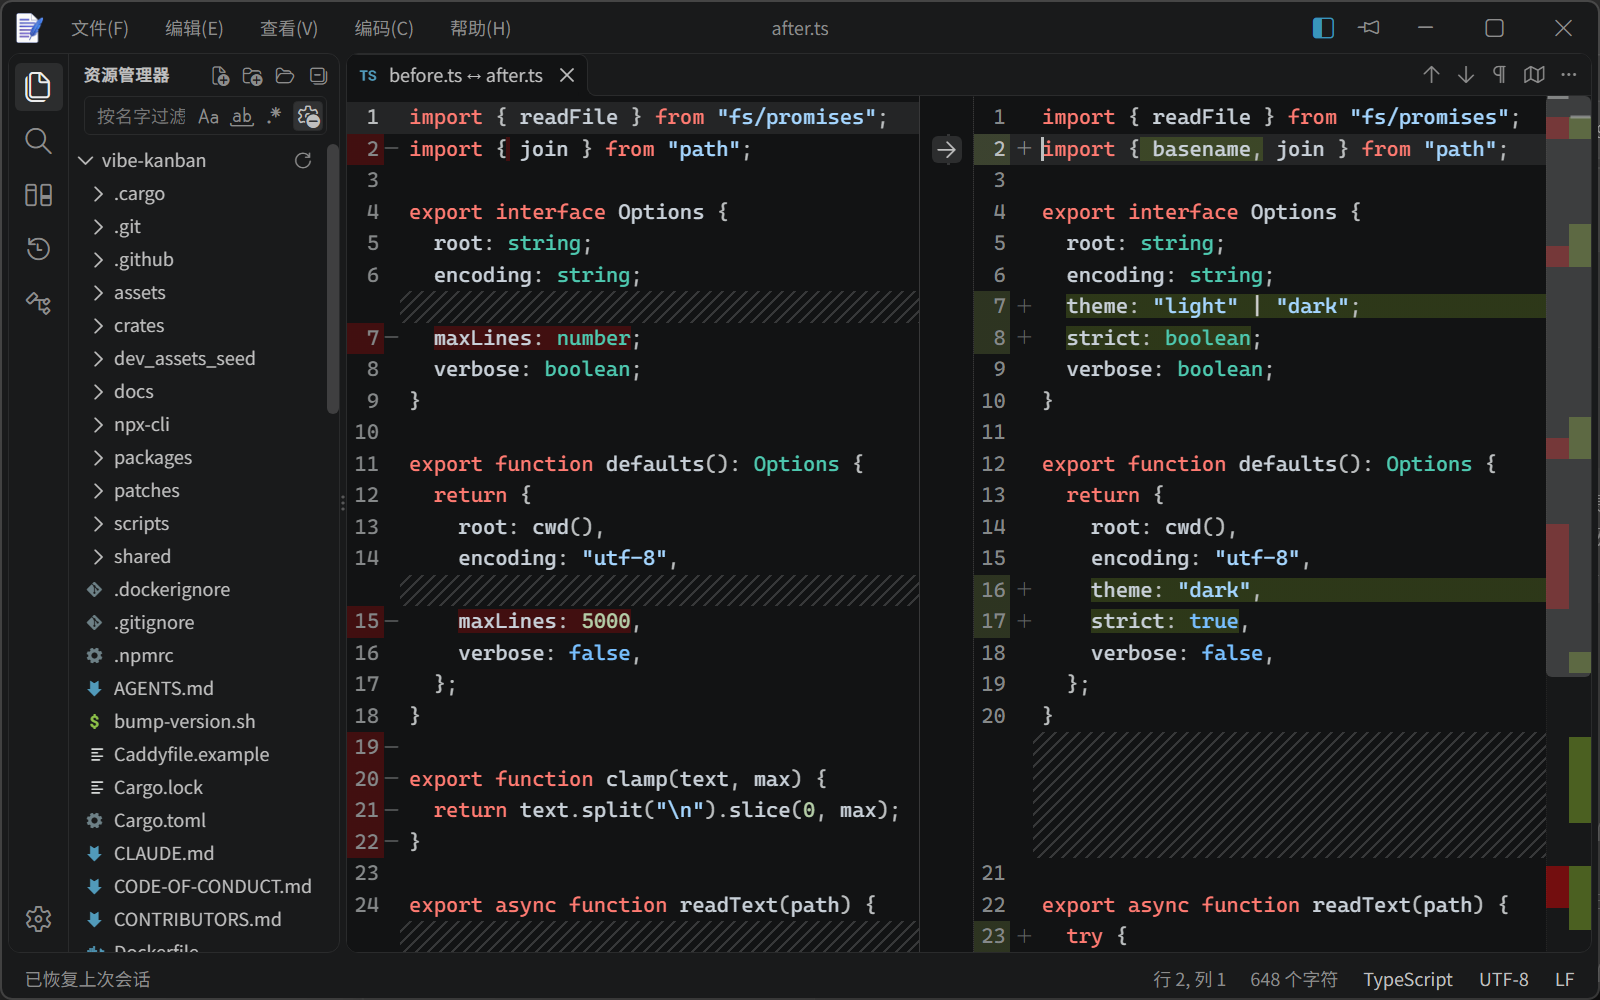
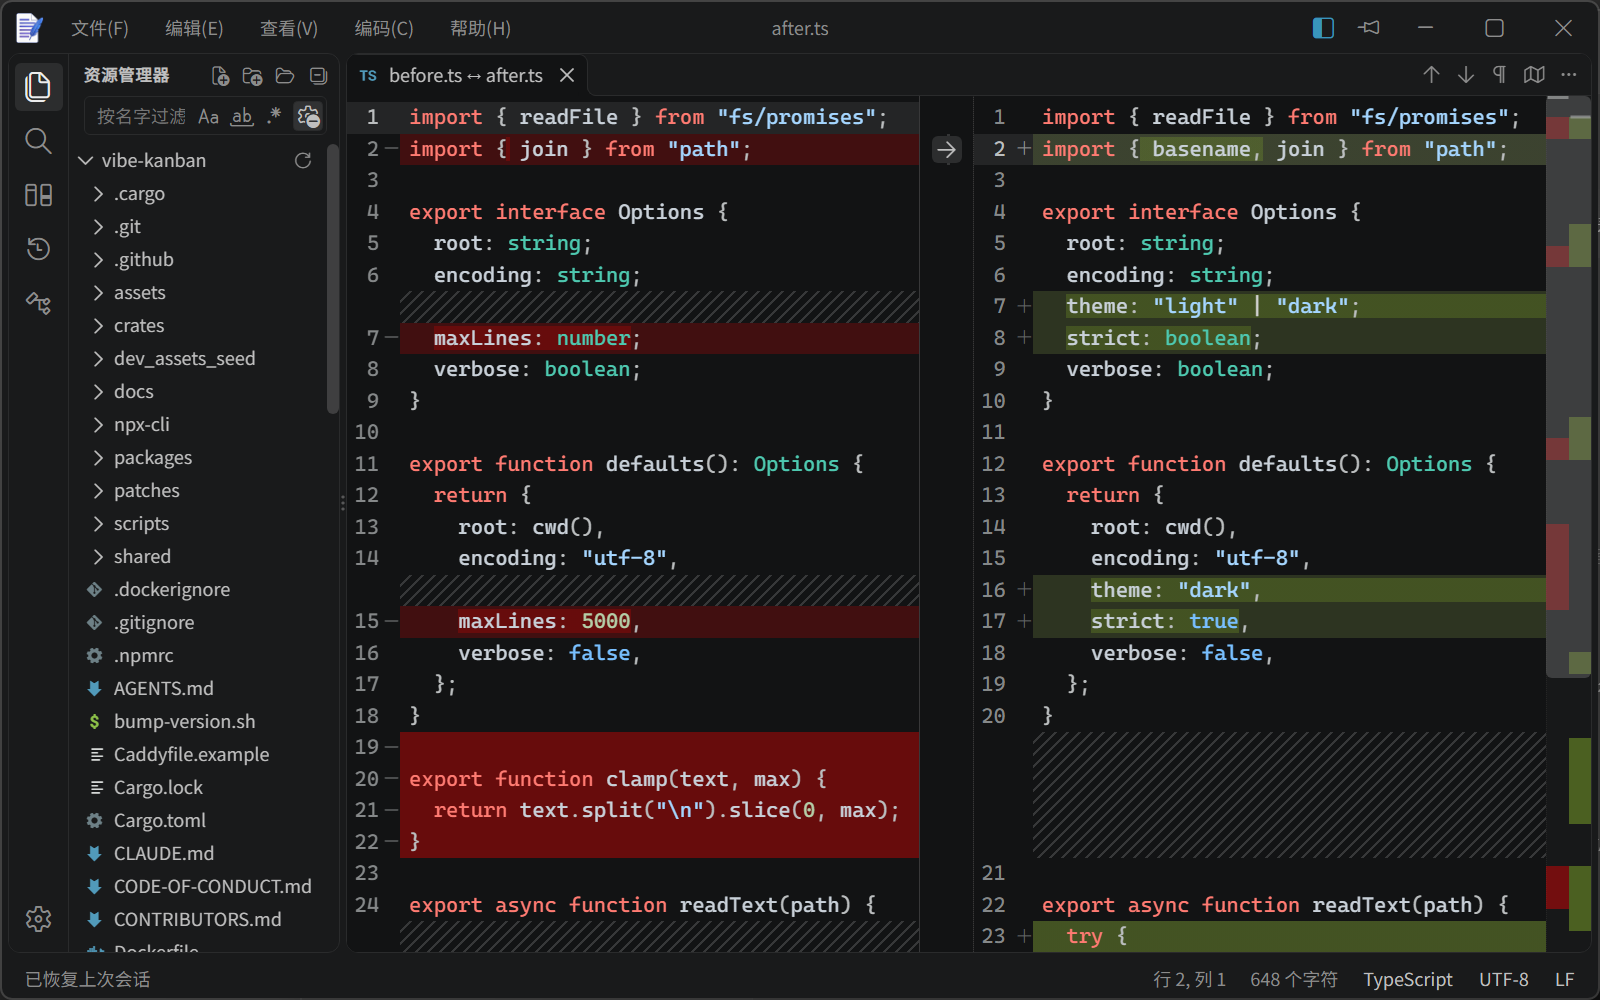
fix(diff): 差异行底色回到正文，行号槽不再上色
a697aa3 按「整行底色盖住语法高亮」的口径把正文 .diff-line-* 规则删了，
596f723 又给行号槽加了底色，结果色带只剩在行号区。按用户口径改回 VS Code
原样：正文行铺 inserted/removedLineBackground（background-image，不碰当前
行高亮），行号槽只留行号与 +/- 记号，face.ts 不再发 .diff-gutter-* 类。

diff --git a/src/diff/face.ts b/src/diff/face.ts
@@ -1,4 +1,4 @@
-// B461 · Task 3 —— 差异面的装饰层（一栏之内的行号槽底色 / 行内字符色 / 占位块 / 中间指示带）。
+// B461 · Task 3 —— 差异面的装饰层（一栏之内的行底色 / 行内字符色 / 占位块 / 中间指示带）。
 //
 // 设计稿 ⑥ 的「同源」约束落在这里：**本文件只消费 `blocks.ts` 交出来的 `DiffBlock[]`，
 // 自己一行都不重新对齐**（对齐只在 `src/diff/align.ts` 算一遍，4px 标注与差异面共用那颗）。
@@ -34,7 +34,6 @@ import {
   EditorView,
   gutter,
   GutterMarker,
-  lineNumberMarkers,
   WidgetType,
 } from "@codemirror/view";
 import { type DiffBlock, type DiffKind, type LineAlignment } from "./blocks";
@@ -411,8 +410,8 @@ function buildFace(
  * `decorationsLeft` → `contentLeft`）：记号走 `linesDecorationsClassName`，落在**行号与正文
  * 之间**，不是行号左边。CM6 的 gutter 按 DOM 次序排 ⇒ 本槽不许再写 `order: -1`。
  *
- * 行号槽本身另由 `DiffGutterMarker` 上色（上游的 `marginClassName`），两者同源于
- * `sideLineMarks` —— 底色、记号与正文行号因此永远落在同一批行上。
+ * 行号槽**不承载差异底色**（用户口径：色带只留在正文，见 `diff.css`）；记号与正文行级类
+ * 同源于 `sideLineMarks` —— 记号与正文行号因此永远落在同一批行上。
  *
  * 记号按**视觉行**画：自动换行把一行折成几行，每个视觉行左边各一颗（用户口径）。CM6 的
  * gutter 一格只对一个文档行，所以一格内部填成等高竖排（`fillSignRows`），行数跟着**这一格
@@ -549,7 +548,7 @@ function signIcon(kind: "insert" | "delete"): HTMLElement {
   return icon;
 }
 
-/** 这一栏的记号（与行号槽底色同一份来源，越界丢弃口径同上）。 */
+/** 这一栏的记号（与行级类同一份来源，越界丢弃口径同上）。 */
 function buildSigns(doc: Text, side: DiffSide, blocks: DiffBlock[]): RangeSet<GutterMarker> {
   const ranges: Range<GutterMarker>[] = [];
   for (const m of sideLineMarks(blocks, side)) {
@@ -559,47 +558,10 @@ function buildSigns(doc: Text, side: DiffSide, blocks: DiffBlock[]): RangeSet<Gu
   return RangeSet.of(ranges, true);
 }
 
-/**
- * 行号槽（margin）的差异底色：上游 `line-insert` / `line-delete` 同时带
- * `marginClassName: 'gutter-insert' / 'gutter-delete'`（`registrations.contribution.ts`），
- * 也就是行号那一列跟着代码区一起上色。CM6 的 `lineNumberMarkers` 把 `elementClass`
- * 加在**整格**行号元素上，正好是这层 margin。
- */
-class DiffGutterMarker extends GutterMarker {
-  readonly elementClass: string;
-
-  constructor(readonly kind: "insert" | "delete") {
-    super();
-    this.elementClass = `diff-gutter-${kind}`;
-  }
-
-  eq(other: GutterMarker): boolean {
-    return other instanceof DiffGutterMarker && other.kind === this.kind;
-  }
-
-  toString(): string {
-    return `gutter-${this.kind}`;
-  }
-}
-
-const insertGutter = new DiffGutterMarker("insert");
-const deleteGutter = new DiffGutterMarker("delete");
-
-/** 行号槽底色（每行一格；缺口行没有文档行 ⇒ 不上色，与上游 view zone 一致）。 */
-function buildGutters(doc: Text, side: DiffSide, blocks: DiffBlock[]): RangeSet<GutterMarker> {
-  const ranges: Range<GutterMarker>[] = [];
-  for (const m of sideLineMarks(blocks, side)) {
-    if (m.line < 1 || m.line > doc.lines) continue;
-    ranges.push((m.kind === "delete" ? deleteGutter : insertGutter).range(doc.line(m.line).from));
-  }
-  return RangeSet.of(ranges, true);
-}
-
-/** 装饰那一臂的四份画法：行级语义类 + 记号槽字形 + 行号槽底色 + 行内字符差异。 */
+/** 装饰那一臂的三份画法：行级语义类 + 记号槽字形 + 行内字符差异。 */
 interface FaceValue {
   lines: RangeSet<Decoration>;
   signs: RangeSet<GutterMarker>;
-  gutters: RangeSet<GutterMarker>;
   chars: RangeSet<Decoration>;
 }
 
@@ -613,7 +575,6 @@ function buildFaceValue(
   return {
     lines: buildFace(doc, side, blocks, gaps),
     signs: buildSigns(doc, side, blocks),
-    gutters: buildGutters(doc, side, blocks),
     chars: buildInner(doc, side, inner[side]),
   };
 }
@@ -698,7 +659,6 @@ const diffFaceField = StateField.define<FaceValue>({
       ? {
           lines: value.lines.map(tr.changes),
           signs: value.signs.map(tr.changes),
-          gutters: value.gutters.map(tr.changes),
           chars: value.chars.map(tr.changes),
         }
       : value;
@@ -706,12 +666,6 @@ const diffFaceField = StateField.define<FaceValue>({
   provide: (f) => [
     EditorView.decorations.from(f, (v) => v.lines),
     EditorView.decorations.from(f, (v) => v.chars),
-    // 行号槽底色吃同一份 `gutters`。依赖写 `f`（provide 的回调参数 = 本字段），
-    // 不写外层变量名 —— 否则字段初始化自引用，TS 推不出类型。
-    lineNumberMarkers.compute(
-      [f],
-      (state: EditorState): RangeSet<GutterMarker> => state.field(f).gutters,
-    ),
   ],
 });
 

diff --git a/src/diff/diff.css b/src/diff/diff.css
@@ -294,7 +294,7 @@
   --diff-revert-fg: #ffffff;
 }
 
-/* 亮色档的字符底色比暗色高一档（上游 light = #9ccc2c40）；行号槽底色明暗相同，不另开。
+/* 亮色档的字符底色比暗色高一档（上游 light = #9ccc2c40）；行底色明暗相同，不另开。
    概览色带跟着亮色的字符底色走（同样 ×2 ⇒ 0.5）。 */
 :root[data-theme="light"] {
   --diff-char-add: #9ccc2c40;
@@ -303,9 +303,8 @@
   --diff-unchanged-shadow: #737373bf;
 }
 
-/* 代码行区**不铺**差异底色（用户口径）：整行 red / green 会盖住语法高亮，改动由行号槽
-   底色、`+` / `−` 记号与行内字符级差异表达。
-   ⚠ 行内字符底色走 `background-image`（`linear-gradient(c, c)` 是一颗纯色层），**不碰**
+/* 行级差异色**只铺正文**（用户口径：VS Code 的色带在代码行上，行号槽不上色）。
+   ⚠ 行底色与行内字符底色都走 `background-image`（`linear-gradient(c, c)` 是一颗纯色层），**不碰**
    `background` / `background-color`（R21）：那两个属性是当前行的 ——
    `.panel-host .cm-editor .cm-activeLine`（0-3-0），而 2026 两档的当前行**只有底色一种**指示
    （见 `global.css` 的 B381 分档注释）。在同一条声明里抢同一个属性，就只能靠加码特异度压它，
@@ -325,6 +324,32 @@
 
 .panel-host.is-diff .diff-char-delete {
   background-image: linear-gradient(var(--diff-char-del), var(--diff-char-del));
+}
+
+/* 行底色：整行一层 20% alpha 的增 / 删色（上游 `insertedLineBackground` /
+   `removedLineBackground`）。分侧语义照 VS Code：**没有「修改行」这一档** —— 原稿侧涂 del、
+   新稿侧涂 add，改块在两边各按自己那一侧上色。 */
+.panel-host.is-diff .cm-line.diff-line-insert {
+  background-image: linear-gradient(var(--diff-line-add), var(--diff-line-add));
+}
+
+.panel-host.is-diff .cm-line.diff-line-delete {
+  background-image: linear-gradient(var(--diff-line-del), var(--diff-line-del));
+}
+
+/* 纯增 / 纯删块：上游 `diffWholeLineAdd / Delete` 就是 `char-insert / char-delete` 的整行版
+   （`isWholeLine: true`），与行底色**两层叠着画**。这里在同一元素的 `background-image` 里
+   叠两层（先写的在上层），整行吃满字符色 —— 不再只覆盖文字宽度。 */
+.panel-host.is-diff .cm-line.diff-line-insert.diff-whole-insert {
+  background-image:
+    linear-gradient(var(--diff-char-add), var(--diff-char-add)),
+    linear-gradient(var(--diff-line-add), var(--diff-line-add));
+}
+
+.panel-host.is-diff .cm-line.diff-line-delete.diff-whole-delete {
+  background-image:
+    linear-gradient(var(--diff-char-del), var(--diff-char-del)),
+    linear-gradient(var(--diff-line-del), var(--diff-line-del));
 }
 
 /* 跨行改动的非末段：上游 `shouldFillLineOnLineBreak` 会把底色补到编辑区右缘。
@@ -370,19 +395,11 @@
   margin-right: -2px;
 }
 
-/* 行号槽是**行级**差异色唯一的落点（用户口径：代码行区不铺底色）：上游
-   `registrations.contribution.ts` 的 `line-insert` / `line-delete` 都带
-   `marginClassName: 'gutter-insert' / 'gutter-delete'`，`diffEditor/style.css` 给这两颗类铺
-   `diffEditorGutter.*LineBackground`，主题未覆盖时落到 `diffEditor.inserted/removedLineBackground`。
-   CM6 侧由 `lineNumberMarkers`（`face.ts` 的 `DiffGutterMarker.elementClass`）加在整格行号元素上。
-   同一手法走 `background-image`，不碰当前行的 `background-color`。 */
-.panel-host.is-diff .cm-lineNumbers .cm-gutterElement.diff-gutter-insert {
-  background-image: linear-gradient(var(--diff-line-add), var(--diff-line-add));
-}
-
-.panel-host.is-diff .cm-lineNumbers .cm-gutterElement.diff-gutter-delete {
-  background-image: linear-gradient(var(--diff-line-del), var(--diff-line-del));
-}
+/* 行号槽**不承载差异底色**：色带只留在正文，行号文字与 `+` / `−` 记号照旧。
+   ⚠ 上游不是这样：`registrations.contribution.ts` 的 `line-insert` / `line-delete` 都带
+   `marginClassName: 'gutter-insert' / 'gutter-delete'`，但 `diffEditorGutter.*LineBackground`
+   注册时默认 `null`、主题不覆盖时那颗 CSS 变量不输出。本项目按产品口径不复刻 margin 上色，
+   `face.ts` 也不发 `.diff-gutter-*` 类 —— 这里刻意没有任何行号槽底色规则。 */
 
 /* `+` / `−` 记号槽：VS Code 的 `linesDecorationsClassName` 落在**行号右侧**的 line decorations
    栏（`EditorLayoutInfo` 的层次：glyphMarginLeft → lineNumbersLeft → decorationsLeft → contentLeft）。
